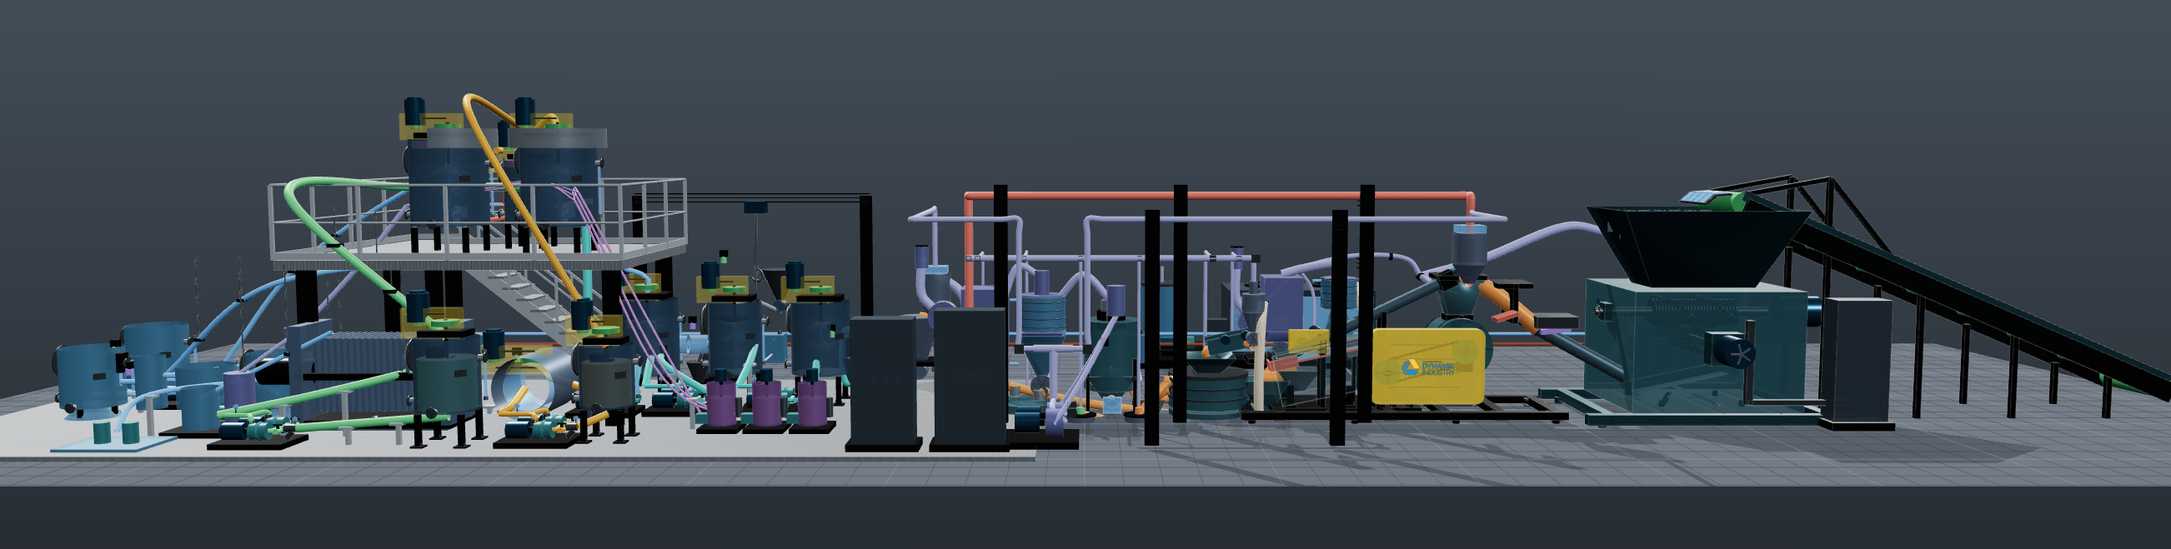
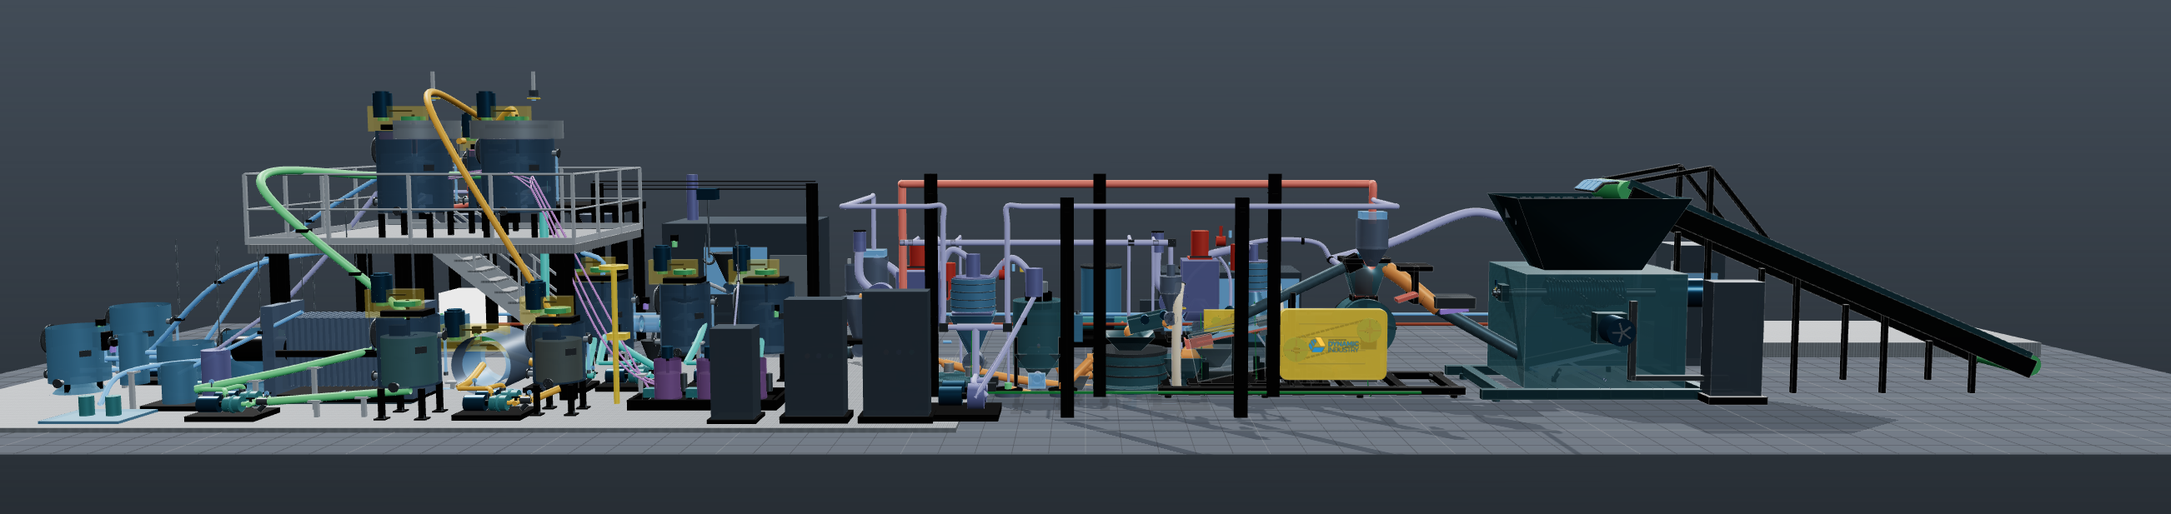
상업 플랜트화 — 폭발방호 · 계량/시료/출하 · AI 감시제어(권고)
「더 정확한 공정 / 상업 플랜트다운 전문성 / AI 적용처」 요청에 대응한다.
현 상태를 조사해 보니 결손이 세 층이었다 — 안전, 거래 경계, 그리고 지능 계층.

분진 폭발 방호. 설계문서는 「Kst/MIE 폭발성 시험」과 「집진/폭발방호」를 제작 전
필수 검증으로 규정하는데 정작 형상이 하나도 없었다. PV 라미네이트를 분쇄하면
Al 미분·폴리머·미세 유리가 나오므로 실제 ATEX/KOSHA 대상이다. 방호를 세 겹으로
세웠다 — 방출(HSG-101·CY-101·BF-101·CY-201·BF-201 벤트 패널과 방출 덕트),
차단(집진기 앞 화염 차단밸브), 착화원 제거(스파크 검출헤드·소화 노즐, 접지 모선과
장비별 본딩). 문서 L2006 이 「접지 강관 위 전파 브러시 방전」을 지적하므로 본딩을
배관까지 끌었다.

계량·시료·출하. 공정만 있고 거래 경계가 없었다. 야드 열(z ≈ 4.6)이 비어 있어
여기에 WB-001 트럭 계량대(60 t, 로드셀 4점, 계량 키오스크), SP-601 시료 축소탑,
LAB-601 분석실, BB-501/502 빅백 충진 스테이션(로드셀 계량·집진 후드)을 놓았다.
약품 스키드에는 방액범과 SS-601 비상샤워·세안기를 둘렀다.

AI 감시제어. 카메라 5대(부선 셀 3기 거품, 투입 패널 분류, 온라인 입도)와 AI-601
엣지 추론 유닛을 놓고, 거품 영상 소프트센서를 실제로 계산되게 붙였다.

여기서 한 번 잘못 짚었다. 처음에는 Sb = 6·Jg/d32 를 그대로 뒤집어 기포경을 얻었는데,
그러면 가정한 상수 1.0 mm 가 그대로 돌아오는 순환 계산이라 세 셀이 전부 같은 값이었다.
카메라의 값어치는 바로 그 상수 가정을 실측으로 대체하는 데 있다. 기포경을 운전점의
함수로 다시 세웠다 — d32 ∝ Jg^0.33 · N^−0.25 (공기를 넣을수록 굵어지고 임펠러가
빠를수록 잘게 쪼개진다). 이 값으로 Sb 를 다시 잡아 R = kτ/(1+kτ) 로 회수율을 추정하니
셀마다 1.000 / 1.073 / 1.105 mm 로 갈리고, 기포가 굵은 셀일수록 추정 회수율이 설계모델
보다 낮게 나온다. 그 차이가 곧 카메라가 더해 주는 정보다.

권고 논리는 조작변수의 물리적 한계를 지킨다 — 회수율이 목표에 못 미치면 먼저 공기량을
올리지만(Sb↑ → k↑ → R↑), 겉보기 가스유속이 Jg = 0.013 m/s 에 닿으면 포말이 무너지므로
더 올리지 않고 포수제 증량으로 조작변수를 바꾼다.

경계 조항을 패널 맨 앞에 박아 두었다. 규제제어(PID) 계층이 아직 없으므로 이 계층은
폐루프가 아니라 개루프 권고(advisory)이고, E-stop·가드 인터록·폭발 방호·과압 트립은
전부 하드와이어/SIL 로 남는다. 안전기능은 모델에 맡기지 않는다.

검증: 구문 6블록 · 차단 로드 · 표시 모드 5종 오류 0. 소프트센서 실측으로 셀별 기포경·
추정 회수율·잔차·권고를 확인. 난수 호출부 random() 37 · visualRandom() 17 유지 —
[…]

Changed region(s): [[0.0, 0.154, 1.0, 0.893]]

diff --git a/docs/drawings/pv-recycling-miniapp.html b/docs/drawings/pv-recycling-miniapp.html
@@ -1601,6 +1601,64 @@ html>body{padding:0}</style>
     <div class="text-small text-muted">정상정지는 BH-101 인계 차단 후 어트리션·부선·탈수 재고를 순차 배출하고 공정수·블로어를 마지막에 정지합니다.</div>
   </details>
 
+  <details class="card hsg3d-validation" id="plant-panel-ai" data-panel-id="ai" data-panel-category="통합 운전">
+    <summary>AI 감시제어 — 거품 영상 소프트센서 (권고 운전)</summary>
+
+    <p class="text-small dd-warning"><strong>경계 조항 — 안전기능은 모델에 맡기지 않습니다.</strong>
+      E-stop, 가드 인터록, 폭발 방호(벤팅·화염차단·스파크 소화), 과압·과부하 트립은 전부
+      하드와이어 / SIL 회로로 남습니다. AI 계층은 <strong>그 위에서 운전점을 권고</strong>할 뿐이며,
+      권고를 무시해도 플랜트는 안전하게 서야 합니다.</p>
+
+    <p class="text-small">현재 규제제어(PID) 계층이 없으므로 이 계층은 <strong>개루프 권고(advisory)</strong>로
+      동작합니다. 상업 플랜트도 APC 도입 시 개루프 권고로 먼저 운용해 모델을 신뢰할 수 있는지 확인한 뒤
+      폐루프로 승격합니다. <code>FIC-201/202/203</code>·<code>LIT</code> 루프가 생기면 같은 출력이 그대로
+      설정값으로 내려갑니다.</p>
+
+    <strong>붙인 모델 — 무엇을 보고 무엇을 내놓는가</strong>
+    <div class="table-responsive"><table class="table table-sm" aria-label="AI 모델 목록">
+      <thead><tr><th>태그</th><th>모델</th><th>입력(관측량)</th><th>출력</th><th class="text-end">주기</th></tr></thead>
+      <tbody>
+        <tr><td>VC-201/202/203</td><td>거품 영상 소프트센서</td><td>Sauter 기포경 d<sub>32</sub>, 포말 표면속도, 하중(색·질감)</td><td>추정 회수율 · 권고 조작</td><td class="text-end">1 s</td></tr>
+        <tr><td>VC-001</td><td>투입 패널 분류</td><td>패널 상면 영상</td><td>종류(유리/유리·유리/백시트) · 치수 · 파손 · JB 유무</td><td class="text-end">장당</td></tr>
+        <tr><td>VC-101</td><td>온라인 입도(PSD)</td><td>이송 슈트 낙하 영상</td><td>d<sub>50</sub>·d<sub>95</sub> 추정</td><td class="text-end">5 s</td></tr>
+        <tr><td>VIT-101/204/301</td><td>예지보전 분류</td><td>진동 스펙트럼 + 모터 전류</td><td>베어링·임펠러 마모 등급</td><td class="text-end">1 min</td></tr>
+      </tbody>
+    </table></div>
+
+    <strong>소프트센서가 실제로 푸는 식</strong>
+    <p class="text-small">카메라는 회수율을 재지 못합니다. 재는 것은 거품의 겉모습이고, 회수율은 거기서
+      <em>추정</em>하는 값입니다. 기포 표면적 유속 <code>S<sub>b</sub> = 6·J<sub>g</sub>/d<sub>32</sub></code>
+      를 뒤집어 영상의 기포경에서 S<sub>b</sub> 를 얻고, 완전혼합 1차 모델
+      <code>R = kτ/(1+kτ)</code> 로 회수율을 추정합니다. 추정값은 <strong>LAB-601 분석값으로 교정</strong>하며,
+      교정 잔차가 곧 이 소프트센서의 정확도입니다.</p>
+
+    <div class="table-responsive"><table class="table table-sm" aria-label="FC-201 러퍼 실시간 추정">
+      <thead><tr><th>FC-201 러퍼 (실시간)</th><th class="text-end">값</th><th>의미</th></tr></thead>
+      <tbody>
+        <tr><td>추정 회수율</td><td class="text-end" data-ai-grade>—</td><td>영상 기반 소프트센서 출력</td></tr>
+        <tr><td>교정 잔차 (LAB 대비)</td><td class="text-end" data-ai-residual>—</td><td>이 값이 커지면 재교정 대상</td></tr>
+        <tr><td>Sauter 기포경 d<sub>32</sub></td><td class="text-end" data-ai-d32>—</td><td>정상 0.9–2.6 mm</td></tr>
+        <tr><td>포말 표면속도</td><td class="text-end" data-ai-velocity>—</td><td>과폭기·포말 붕괴 판단</td></tr>
+        <tr><td>추정 신뢰도</td><td class="text-end" data-ai-confidence>—</td><td>50 % 미만이면 권고를 내지 않음</td></tr>
+      </tbody>
+    </table></div>
+
+    <p class="text-small"><strong>권고</strong> · <span data-ai-advice>—</span></p>
+
+    <p class="text-small">권고 논리는 조작변수의 물리적 한계를 지킵니다 — 회수율이 목표에 못 미치면
+      <strong>먼저 공기량</strong>을 올리지만(S<sub>b</sub>↑ → k↑ → R↑), 겉보기 가스유속이 상한
+      <code>J<sub>g</sub> = 0.013 m/s</code> 에 닿으면 더 올리지 않고 <strong>포수제 증량</strong>으로
+      조작변수를 바꿉니다. 공기를 무한정 올리면 포말이 무너져 오히려 회수율이 떨어지기 때문입니다.</p>
+
+    <strong>전제 — 분석 데이터가 없으면 AI 도 없습니다</strong>
+    <p class="text-small">소프트센서는 교정 없이는 숫자를 지어낼 뿐입니다. 이번에 세운
+      <strong>SP-601 시료 축소탑과 LAB-601 분석실</strong>이 그 ground truth 를 만듭니다.
+      자동 샘플러 → 리플 분할 → 분석 → 소프트센서 재교정이 한 고리로 돌아야 합니다.</p>
+
+    <p class="text-small text-muted">한계: 야금수지(스트림별 Ag·유리·Si 조성)가 아직 없어 추정 회수율은
+      부유성 B 군 기준의 상대값입니다. 절대 품위(g/t)와 정산은 야금수지가 들어와야 성립합니다.</p>
+  </details>
+
   <details class="card hsg3d-layout-panel" id="plant-panel-layout" data-panel-id="layout" data-panel-category="상세설계"><summary>6개 장비군 · 2D/3D 상세 제작·설치 설계</summary></details>
 
   <details class="card hsg3d-parts-panel" id="plant-panel-maintenance" data-panel-id="maintenance" data-panel-category="제작·설치"><summary>6개 장비군 · BOM·체결구·설치 인터페이스</summary></details>
@@ -15529,6 +15587,9 @@ window.__HSG_CANNON__=Object.freeze({"AABB":AABB,"ArrayCollisionMatrix":ArrayCol
       equipmentWater: makeMaterial(color.equipmentWater, 0.36, 0.48, 0.92),
       equipmentControl: makeMaterial(color.equipmentControl, 0.30, 0.62, 0.96)
     };
+    // 폭발방호 부속은 한눈에 구분돼야 한다 — 안전색으로 따로 뺀다.
+    const explosionMaterial = makeMaterial(0xb8452f, 0.46, 0.24);      // 벤트 패널·차단밸브
+    const bondingMaterial = makeMaterial(0x3f8f4a, 0.52, 0.30);        // 접지·본딩 (녹색)
     const scene = new THREE.Scene();
     // 배경이 --background 한 색(dark 에서 rgb 24,24,24)이라 플랜트가 캄캄한 허공에 떠
     // 있었다. 화면의 3/4 이 휘도 24 짜리 검정이면 장치를 아무리 밝게 비춰도 전체가
@@ -15654,6 +15715,33 @@ window.__HSG_CANNON__=Object.freeze({"AABB":AABB,"ArrayCollisionMatrix":ArrayCol
 
     function addBox(parent, size, position, sourceMaterial, partId, rotation, edged = true) {
       return addMesh(parent, new THREE.BoxGeometry(size.x, size.y, size.z), sourceMaterial, position, rotation, partId, edged);
+    }
+
+    // ---- 분진 폭발 방호 (ATEX / KOSHA) --------------------------------------
+    // PV 라미네이트를 분쇄하면 Al 미분·폴리머·미세 유리가 나온다. 설계문서는
+    // 「Kst/MIE 폭발성 시험」과 「집진/폭발방호」를 제작 전 필수 검증으로 규정하는데
+    // 정작 형상이 하나도 없었다. 방호는 세 겹이다 — 방출(벤팅) · 차단(전파 방지) ·
+    // 착화원 제거(스파크 검출·접지).
+    // 벤트는 사람이 다니지 않는 쪽으로 열려야 하므로 방향을 인자로 받는다.
+    function addVentPanel(parent, partId, position, size, dir = "y") {
+      const rot = dir === "y" ? null : dir === "x" ? { z: Math.PI / 2 } : { x: Math.PI / 2 };
+      addBox(parent, { x: size.x, y: 0.035, z: size.z }, position, explosionMaterial, partId, rot, true);
+      // 힌지와 구속 밴드 — 패널이 완전히 날아가지 않게 잡아 둔다
+      addBox(parent, { x: size.x * 0.92, y: 0.030, z: 0.030 },
+        { x: position.x, y: position.y + 0.03, z: position.z - size.z / 2 }, material.silverClamp, partId, rot, false);
+      // 방출 덕트 — 안전구역으로 뽑는다
+      addCylinder(parent, Math.min(size.x, size.z) * 0.42, 0.44,
+        { x: position.x, y: position.y + 0.24, z: position.z }, explosionMaterial, partId, "y", 20, false);
+    }
+    // 접지·본딩 — 문서 L2006 이 「접지 강관 위 전파 브러시 방전(IEC TS 60079-32-1)」을
+    // 지적하므로 배관·장비를 접지 모선에 묶는다.
+    function addBonding(parent, partId, from, to) {
+      const curve = new THREE.CatmullRomCurve3([
+        new THREE.Vector3(from.x, from.y, from.z),
+        new THREE.Vector3((from.x + to.x) / 2, Math.min(from.y, to.y) - 0.10, (from.z + to.z) / 2),
+        new THREE.Vector3(to.x, to.y, to.z)
+      ]);
+      addMesh(parent, new THREE.TubeGeometry(curve, 18, 0.008, 6, false), bondingMaterial, { x: 0, y: 0, z: 0 }, null, partId, false);
     }
 
     function addCylinder(parent, radius, length, position, sourceMaterial, partId, axis = "z", segments = 48, edged = false) {
@@ -17328,6 +17416,34 @@ window.__HSG_CANNON__=Object.freeze({"AABB":AABB,"ArrayCollisionMatrix":ArrayCol
     // Wet-process objects are added to the same scene/camera as the preserved
     // ICSH-301 -> HSG-101 -> SV/SS-201 source model. Only the plant-to-plant
     // coordinate transform and the sealed <75 um handoff are new.
+    // ── 분진 폭발 방호 배치 ────────────────────────────────────────────────
+    // 방출: 압력이 설계값을 넘으면 사람이 없는 쪽으로 터뜨려 용기를 살린다.
+    // 차단: 화염이 덕트를 타고 상·하류로 전파하는 것을 막는다.
+    // 착화원: 스파크를 덕트에서 잡고, 정전기가 쌓이지 않게 접지로 흘린다.
+    // 이 세 겹이 있어야 Kst/MIE 시험 결과를 설계에 반영했다고 말할 수 있다.
+    addVentPanel(parts.P02, "P02", { x: grinderX, y: 1.53, z: 0 }, { x: 0.34, z: 0.34 });
+    addVentPanel(parts.P15, "P15", { x: cycloneX + 0.28, y: 1.90, z: cycloneZ }, { x: 0.26, z: 0.26 }, "x");
+    addVentPanel(parts.P17, "P17", { x: filterCenter.x, y: 2.12, z: filterCenter.z }, { x: 0.40, z: 0.36 });
+    addVentPanel(parts.P21, "P21", { x: cyclone2Center.x + 0.42, y: 1.60, z: cyclone2Center.z }, { x: 0.30, z: 0.30 }, "x");
+    addVentPanel(parts.P21, "P21", { x: bfCenter.x, y: 1.98, z: bfCenter.z }, { x: 0.48, z: 0.40 });
+
+    // 화염 차단밸브 — 집진기 앞 덕트. 로터리 에어록도 차단장치로 함께 계정한다.
+    [["P17", 1.62, 2.40, 0.55], ["P21", 5.30, 1.86, 0.20]].forEach(([id, x, y, z]) => {
+      addCylinder(parts[id], 0.085, 0.16, { x, y, z }, explosionMaterial, id, "x", 20, false);
+      addBox(parts[id], { x: 0.05, y: 0.20, z: 0.05 }, { x, y: y + 0.16, z }, explosionMaterial, id, null, false);
+      // 스파크 검출헤드와 소화 노즐 — 검출에서 분사까지 수십 ms 안에 끝나야 한다
+      addCylinder(parts[id], 0.032, 0.10, { x: x - 0.30, y: y + 0.10, z }, material.safety, id, "y", 14, false);
+      addCylinder(parts[id], 0.026, 0.12, { x: x - 0.16, y: y + 0.12, z }, material.pipeWater, id, "y", 12, false);
+    });
+
+    // 접지 모선과 본딩 — 장비·배관을 한 점 접지로 묶는다.
+    addBox(parts.P01, { x: 8.20, y: 0.035, z: 0.05 }, { x: 2.60, y: 0.06, z: -0.92 }, bondingMaterial, "P01", null, false);
+    addBonding(parts.P02, "P02", { x: grinderX, y: 0.58, z: -0.30 }, { x: grinderX, y: 0.06, z: -0.92 });
+    addBonding(parts.P15, "P15", { x: cycloneX, y: 1.40, z: cycloneZ - 0.20 }, { x: cycloneX, y: 0.06, z: -0.92 });
+    addBonding(parts.P17, "P17", { x: filterCenter.x, y: 1.20, z: filterCenter.z - 0.26 }, { x: filterCenter.x, y: 0.06, z: -0.92 });
+    addBonding(parts.P21, "P21", { x: cyclone2Center.x, y: 1.10, z: cyclone2Center.z - 0.30 }, { x: cyclone2Center.x, y: 0.06, z: -0.92 });
+    addBonding(parts.P21, "P21", { x: bfCenter.x, y: 1.00, z: bfCenter.z - 0.32 }, { x: bfCenter.x, y: 0.06, z: -0.92 });
+
     const unifiedWet = new THREE.Group();
     unifiedWet.name = "UNIFIED-WET-PROCESS";
     circuit.add(unifiedWet);
@@ -18076,6 +18192,82 @@ window.__HSG_CANNON__=Object.freeze({"AABB":AABB,"ArrayCollisionMatrix":ArrayCol
     wetControlPanel("RIO-401", 11.60, 2.82, 0.56, 1.12, "어트리션·약품 현장 I/O");
     wetControlPanel("RIO-402", 16.82, 2.82, 0.56, 1.12, "부선·탈수 현장 I/O");
 
+    // ── AI 감시제어 현장 장치 ─────────────────────────────────────────────
+    // 카메라가 재는 것은 회수율이 아니라 거품의 겉모습이다. 셀 위에서 포말 표면을
+    // 내려다보게 걸고, 조명은 그림자가 지지 않게 링으로 준다.
+    function wetVisionCamera(tag, x, y, z, note) {
+      wetBox(unifiedWet, [0.10, 0.10, 0.16], [x, y, z], material.equipmentControl, `${tag} 카메라 본체`);
+      wetCylinder(unifiedWet, 0.035, 0.06, [x, y - 0.10, z], material.screen, `${tag} 렌즈`, 16);
+      wetMesh(unifiedWet, new THREE.TorusGeometry(0.10, 0.014, 6, 20), material.safety, [x, y - 0.09, z], `${tag} LED 링조명`, [Math.PI / 2, 0, 0]);
+      wetBox(unifiedWet, [0.05, 0.34, 0.05], [x, y + 0.20, z], hdgMaterial, `${tag} 브래킷`);
+      wetLabel(`${tag} · ${note}`, [x, y + 0.52, z], [1.50, 0.19, 1]);
+    }
+    // 부선 셀 3기 — 라우더 위에서 포말면을 본다
+    wetVisionCamera("VC-201", 13.38, 4.92, 0.86, "FC-201 거품 영상");
+    wetVisionCamera("VC-202", 14.24, 4.30, 1.86, "FC-202 거품 영상");
+    wetVisionCamera("VC-203", 15.10, 4.92, 0.86, "FC-203 거품 영상");
+    // 투입 패널 분류 · 온라인 입도
+    wetVisionCamera("VC-001", -6.40, 1.62, 1.30, "패널 종류·치수·파손 분류");
+    wetVisionCamera("VC-101", 2.36, 1.42, -0.10, "온라인 입도(PSD)");
+    // AI-601 엣지 추론 유닛 — 제어반 열 옆
+    wetBox(unifiedWet, [0.72, 0.06, 0.62], [9.12, 0.03, -2.82], material.frame, "AI-601 플린스");
+    wetBox(unifiedWet, [0.62, 1.34, 0.52], [9.12, 0.73, -2.82], material.equipmentControl, "AI-601 엣지 추론 유닛");
+    wetBox(unifiedWet, [0.44, 0.30, 0.03], [9.12, 1.06, -2.55], material.screen, "AI-601 상태 표시");
+    for (const dy of [0.38, 0.50, 0.62]) {
+      wetBox(unifiedWet, [0.40, 0.035, 0.03], [9.12, dy, -2.55], material.silverClamp, "AI-601 GPU 모듈");
+    }
+    wetTube(unifiedWet, [[9.12, 1.42, -2.82], [9.12, 1.86, -2.60], [10.60, 1.86, 3.50]], 0.016, material.pipeAir, "AI-601 광케이블 트렁크");
+    wetLabel("AI-601 엣지 추론 · 거품 소프트센서 · 권고(advisory)", [9.12, 1.72, -2.82], [2.15, 0.21, 1]);
+
+    // ── 계량 · 시료 · 출하 (상업 플랜트 거래 경계) ─────────────────────────
+    // 지금까지는 공정만 있고 「거래 경계」가 없었다. 상업 플랜트는 들어온 양과 나간 양을
+    // 법정 계량으로 확정하고, 그 값을 시료·분석으로 뒷받침해야 정산이 성립한다.
+    // 야드 열(z ≈ 4.6)은 비어 있어 계량·출하 동선을 여기에 잡는다.
+    const YARD_ROW_Z = 4.60;
+
+    // WB-001 트럭 계량대 — 입·출하 custody transfer 경계
+    wetBox(unifiedWet, [6.40, 0.28, 3.10], [-10.90, 0.14, YARD_ROW_Z], gratingMaterial(6.40, 3.10), "WB-001 계량 데크");
+    for (const dx of [-2.85, 2.85]) for (const dz of [-1.30, 1.30]) {
+      wetCylinder(unifiedWet, 0.075, 0.24, [-10.90 + dx, 0.12, YARD_ROW_Z + dz], material.silverClamp, "WB-001 로드셀", 16);
+    }
+    wetBox(unifiedWet, [0.90, 2.20, 0.90], [-7.20, 1.10, YARD_ROW_Z - 2.10], material.equipmentControl, "WB-001 계량 키오스크");
+    wetBox(unifiedWet, [0.62, 0.40, 0.03], [-7.20, 1.50, YARD_ROW_Z - 2.56], material.screen, "WB-001 계량 표시기");
+    wetLabel("WB-001 트럭 계량대 · 60 t · 입출하 custody transfer", [-10.90, 1.40, YARD_ROW_Z], [2.55, 0.24, 1]);
+
+    // SP-601 시료 축소탑 + LAB-601 분석실 — AI 소프트센서 교정의 데이터 원천
+    wetBox(unifiedWet, [0.70, 0.10, 0.70], [8.40, 0.05, YARD_ROW_Z], material.frame, "SP-601 기초");
+    wetCone(unifiedWet, 0.30, 0.10, 0.46, [8.40, 0.86, YARD_ROW_Z], material.solidsReceiver, "SP-601 리플 분할기", 20);
+    wetCylinder(unifiedWet, 0.30, 0.52, [8.40, 1.35, YARD_ROW_Z], material.solidsReceiver, "SP-601 시료 축소탑", 24, null, true);
+    for (const dz of [-0.34, 0.34]) wetCylinder(unifiedWet, 0.085, 0.22, [8.40, 0.42, YARD_ROW_Z + dz], material.equipmentReceiver, "SP-601 축소시료통", 18);
+    for (const dx of [-0.28, 0.28]) wetBox(unifiedWet, [0.06, 1.70, 0.06], [8.40 + dx, 0.85, YARD_ROW_Z + 0.40], hdgMaterial, "SP-601 지지대");
+    wetBox(unifiedWet, [2.80, 2.50, 2.20], [10.60, 1.25, YARD_ROW_Z], material.equipmentControl, "LAB-601 분석실");
+    wetBox(unifiedWet, [1.20, 0.90, 0.04], [10.60, 1.60, YARD_ROW_Z - 1.12], material.screen, "LAB-601 창");
+    wetBox(unifiedWet, [0.80, 1.90, 0.05], [9.55, 0.95, YARD_ROW_Z - 1.10], material.cover, "LAB-601 출입문");
+    wetCylinder(unifiedWet, 0.11, 0.90, [11.70, 2.95, YARD_ROW_Z], material.equipmentAir, "LAB-601 흄후드 배기", 18);
+    wetLabel("SP-601 시료 축소 · LAB-601 분석실 — 정광 품위 확정", [9.50, 3.05, YARD_ROW_Z], [2.60, 0.24, 1]);
+
+    // BB-501/502 빅백 충진 스테이션 — 로드셀 계량 후 출하
+    [["BB-501", 13.60, "Si 케이크 제품"], ["BB-502", 16.10, "Ag 정광"]].forEach(([tag, bx, what]) => {
+      for (const dx of [-0.62, 0.62]) for (const dz of [-0.62, 0.62]) {
+        wetHBeam(unifiedWet, `${tag} 충진 프레임 H200`, [bx + dx, 1.35, YARD_ROW_Z + dz], 2.70, "y", 0.20, 0.10);
+      }
+      wetBox(unifiedWet, [1.50, 0.14, 1.50], [bx, 2.76, YARD_ROW_Z], material.frame, `${tag} 상부 보`);
+      wetCone(unifiedWet, 0.34, 0.12, 0.52, [bx, 2.36, YARD_ROW_Z], material.solidsReceiver, `${tag} 충진 호퍼`, 22);
+      for (const dx of [-0.50, 0.50]) wetCylinder(unifiedWet, 0.055, 0.18, [bx + dx, 2.70, YARD_ROW_Z], material.silverClamp, `${tag} 계량 로드셀`, 14);
+      wetBox(unifiedWet, [0.95, 0.95, 0.95], [bx, 0.62, YARD_ROW_Z], material.equipmentReceiver, `${tag} 빅백 1 t`);
+      wetBox(unifiedWet, [1.15, 0.14, 1.05], [bx, 0.08, YARD_ROW_Z], material.frame, `${tag} 파렛트`);
+      wetCylinder(unifiedWet, 0.13, 0.40, [bx + 0.80, 2.30, YARD_ROW_Z], material.equipmentAir, `${tag} 집진 후드`, 18);
+      wetLabel(`${tag} · ${what} 빅백 충진`, [bx, 3.20, YARD_ROW_Z], [1.70, 0.21, 1]);
+    });
+
+    // 약품 방액범과 비상샤워 — RS-201/202/203 은 정량 약품이라 누출 대비가 필수다
+    for (const [dx, dz, sx, sz] of [[0, -0.52, 2.30, 0.06], [0, 0.52, 2.30, 0.06], [-1.12, 0, 0.06, 1.10], [1.12, 0, 0.06, 1.10]]) {
+      wetBox(unifiedWet, [sx, 0.16, sz], [9.82 + dx, 0.08, -1.55 + dz], material.frame, "RS-201/202/203 방액범");
+    }
+    wetCylinder(unifiedWet, 0.045, 2.20, [11.30, 1.10, -1.55], material.safety, "SS-601 비상샤워 지주", 14);
+    wetCylinder(unifiedWet, 0.22, 0.06, [11.30, 2.16, -1.55], material.safety, "SS-601 샤워 헤드", 20);
+    wetBox(unifiedWet, [0.30, 0.10, 0.24], [11.30, 1.05, -1.40], material.safety, "SS-601 세안기");
+
     wetLabel("완전 통합공정 · 건식 환류 → 정량 습식인계 → 어트리션 → 부선 → 탈수 → 공정수 회수", [13.70, 5.36, 0.12], [3.05, 0.29, 1]);
 
     // 습식 배관을 다 놓은 뒤 지지물을 한 번에 배치한다. 배관마다 손으로 다는 대신
@@ -18272,6 +18464,14 @@ window.__HSG_CANNON__=Object.freeze({"AABB":AABB,"ArrayCollisionMatrix":ArrayCol
       dryStopIssued: false,
       wetStopIssued: false,
       lastUiMs: 0
+    };
+    const aiUi = {
+      grade: root.querySelector("[data-ai-grade]"),
+      residual: root.querySelector("[data-ai-residual]"),
+      d32: root.querySelector("[data-ai-d32]"),
+      velocity: root.querySelector("[data-ai-velocity]"),
+      confidence: root.querySelector("[data-ai-confidence]"),
+      advice: root.querySelector("[data-ai-advice]")
     };
     const unifiedUi = {
       mode: root.querySelector("[data-plc001-mode]"),
@@ -18673,6 +18873,7 @@ window.__HSG_CANNON__=Object.freeze({"AABB":AABB,"ArrayCollisionMatrix":ArrayCol
       });
       updateAttritionParticles(seconds);
       updateFlotationParticles(seconds);
+      updateFrothVision(seconds);
       updateFilterPress(seconds);
       wetFlowMarkers.forEach((marker) => {
         const enabled = wetAnimationAllowed(marker.userData.activation);
@@ -19322,9 +19523,9 @@ window.__HSG_CANNON__=Object.freeze({"AABB":AABB,"ArrayCollisionMatrix":ArrayCol
       return 6 * (airNm3Min / area / 60) / FLOTATION_BUBBLE_D32_M;
     }
     const flotationCells = [
-      { cell: fc201, tag: "FC-201", volumeL: 180, air: 0.060 },
-      { cell: fc202, tag: "FC-202", volumeL: 30, air: 0.020 },
-      { cell: fc203, tag: "FC-203", volumeL: 190, air: 0.075 }
+      { cell: fc201, tag: "FC-201", volumeL: 180, air: 0.060, rpm: DRIVE_RPM.flotationRougher },
+      { cell: fc202, tag: "FC-202", volumeL: 30, air: 0.020, rpm: DRIVE_RPM.flotationCleanerScav },
+      { cell: fc203, tag: "FC-203", volumeL: 190, air: 0.075, rpm: DRIVE_RPM.flotationCleanerScav }
     ].map((entry) => {
       const sb = flotationSb(entry.volumeL, entry.air);
       const tau = entry.volumeL / FLOTATION_SLURRY_LPM;
@@ -19373,6 +19574,76 @@ window.__HSG_CANNON__=Object.freeze({"AABB":AABB,"ArrayCollisionMatrix":ArrayCol
       );
       item.mesh.material.opacity = 1;
     }
+    // ---- AI-601 거품 영상 소프트센서 (advisory) ------------------------------
+    // 실제 거품 카메라가 재는 것은 회수율이 아니라 겉모습이다 — Sauter 평균 기포경
+    // d32, 포말 표면속도, 하중(색·질감). 회수율은 거기서 추정하고 LAB-601 분석값으로
+    // 교정한다. 여기서는 물리모델 회수율이 ground truth 이고, 소프트센서는 관측량에서
+    // 그 값을 되짚되 교정 잔차만큼 어긋나게 둔다 — 실제 소프트센서가 그렇게 동작한다.
+    // 잔차는 난수가 아니라 느린 주기함수로 둔다: 시드 DEM 난수열을 건드리지 않고,
+    // 재현 가능하며, 실제로도 소프트센서 오차는 백색잡음이 아니라 드리프트로 나타난다.
+    // 물리모델은 기포경을 상수 1.0 mm 로 가정한다(FLOTATION_BUBBLE_D32_M). 카메라의 값어치는
+    // 바로 그 가정을 실측으로 대체하는 데 있다 — 기포경은 운전점에 따라 움직인다.
+    // 공기를 많이 넣을수록 굵어지고(합체), 임펠러를 빨리 돌릴수록 잘게 쪼개진다.
+    //   d32 ∝ Jg^0.33 · N^−0.25
+    // 이 값으로 Sb 를 다시 계산해 회수율을 추정하므로, 추정값과 설계모델의 차이가
+    // 곧 카메라가 더해 주는 정보다. 상수를 되짚는 순환 계산이 아니다.
+    const FROTH_JG_REF = 0.0034;           // 기준 운전점 겉보기 가스유속 m/s (FC-201)
+    const FROTH_RPM_REF = 420;             // 기준 임펠러 회전수
+    const FROTH_VISION_DRIFT = 0.012;      // LAB 교정 잔차 진폭 — 영상 교정의 잔여 오차
+    const FROTH_D32_OK = [0.9, 2.6];       // 정상 운전 기포경 범위 mm
+    const FROTH_JG_MAX = 0.013;            // 공기 겉보기 유속 상한 m/s — 넘으면 포말이 무너진다
+    const frothVision = flotationCells.map((entry, index) => ({
+      entry, tag: entry.tag, phase: index * 2.1,
+      d32: 0, frothVelocity: 0, load: 0, jg: 0,
+      estimated: 0, model: 0, residual: 0, confidence: 0, advice: "—"
+    }));
+    function updateFrothVision(seconds) {
+      for (const v of frothVision) {
+        const { entry } = v;
+        const volume = entry.volumeL / 1000;
+        const diameter = Math.cbrt(4 * volume / Math.PI);
+        const area = Math.PI * diameter * diameter / 4;
+        v.jg = entry.air / area / 60;                       // 겉보기 가스유속 m/s
+        // 영상에서 읽은 기포경 — 운전점을 따라 움직인다
+        v.d32 = FLOTATION_BUBBLE_D32_M * 1000
+          * Math.pow(v.jg / FROTH_JG_REF, 0.33)
+          * Math.pow(FROTH_RPM_REF / entry.rpm, 0.25);
+        v.frothVelocity = v.jg * 100 * 1.8;                 // 포말 표면속도 cm/s (경험 비례)
+        v.model = entry.recovery.B;                         // 설계모델 회수율(기포경 상수 가정)
+        v.load = THREE.MathUtils.clamp(v.model * 0.92, 0, 1);
+        // 실측 기포경으로 Sb 를 다시 잡고 같은 1차 모델로 회수율을 추정한다
+        const sbVision = 6 * v.jg / (v.d32 / 1000);
+        const kVision = FLOTATION_K0 * (sbVision / flotationCells[0].sb) * FLOTATION_FLOATABILITY.B;
+        const ktVision = kVision * entry.tau;
+        const drift = FROTH_VISION_DRIFT * Math.sin(seconds * 0.09 + v.phase);   // LAB 교정 잔여
+        v.estimated = THREE.MathUtils.clamp(ktVision / (1 + ktVision) + drift, 0, 1);
+        v.residual = v.estimated - v.model;
+        // 신뢰도 — 기포경이 교정 범위를 벗어나면 추정이 못 미덥다
+        const span = FROTH_D32_OK[1] - FROTH_D32_OK[0];
+        const out = Math.max(FROTH_D32_OK[0] - v.d32, v.d32 - FROTH_D32_OK[1], 0) / span;
+        v.confidence = THREE.MathUtils.clamp(1 - out * 1.6, 0.2, 0.99);
+        // 권고 — 회수율이 목표에 못 미치면 먼저 공기, 공기가 상한이면 약품.
+        // 공기를 무한정 올릴 수 없는 이유가 포말 붕괴라, 상한에서 조작변수를 바꾼다.
+        const target = entry.tag === "FC-201" ? FLOTATION_ROUGHER_TARGET : v.model + 0.02;
+        if (v.confidence < 0.5) v.advice = "영상 신뢰도 낮음 — LAB-601 재교정";
+        else if (v.estimated < target - 0.02) {
+          v.advice = v.jg < FROTH_JG_MAX
+            ? `${entry.tag} 공기량 +8 % (FIC 상향)`
+            : `${entry.tag} 포수제 +5 g/t — 공기 상한 도달`;
+        } else if (v.estimated > target + 0.04 && v.jg > FROTH_JG_MAX * 0.6) {
+          v.advice = `${entry.tag} 공기량 −5 % — 과폭기 여유`;
+        } else v.advice = "정상 — 조작 불필요";
+      }
+      if (!aiUi.grade) return;
+      const rougher = frothVision[0];
+      aiUi.grade.textContent = (rougher.estimated * 100).toFixed(1) + " %";
+      aiUi.residual.textContent = (rougher.residual * 100 >= 0 ? "+" : "") + (rougher.residual * 100).toFixed(2) + " %p";
+      aiUi.d32.textContent = rougher.d32.toFixed(2) + " mm";
+      aiUi.velocity.textContent = rougher.frothVelocity.toFixed(1) + " cm/s";
+      aiUi.confidence.textContent = (rougher.confidence * 100).toFixed(0) + " %";
+      aiUi.advice.textContent = frothVision.map((v) => v.advice).join(" · ");
+    }
+
     function updateFlotationParticles(seconds) {
       flotationParticles.forEach((item) => {
         const enabled = wetAnimationAllowed(item.entry.cell === fc201 ? 420 : 360);

diff --git a/docs/drawings/renders/README.md b/docs/drawings/renders/README.md
@@ -6,9 +6,9 @@
 
 | 파일 | 시점 | 크기 |
 |---|---|---|
-| `plant-view-top.png` | 평면 — 거의 수직(85°) 하향 | 2604 × 899 |
-| `plant-view-side-a.png` | 측면 A — +z 에서 −z 를 봄. 투입부가 왼쪽 | 2604 × 659 |
-| `plant-view-side-b.png` | 측면 B — −z 에서 +z 를 봄. 측면 A 의 반대편 | 2604 × 659 |
+| `plant-view-top.png` | 평면 — 거의 수직(85°) 하향 | 2604 × 882 |
+| `plant-view-side-a.png` | 측면 A — +z 에서 −z 를 봄. 투입부가 왼쪽 | 2604 × 617 |
+| `plant-view-side-b.png` | 측면 B — −z 에서 +z 를 봄. 측면 A 의 반대편 | 2604 × 617 |
 
 습식부 데크는 밝은 회색 강재 그레이팅이다. 이전 판에서는 `material.frame`(metalness 0.76 · 환경맵 없음)
 이라 평면에서 L≈15 의 검은 판으로 잡혀 그 위 장비를 눌렀다. 지금은 L≈160 으로, 스튜디오 배경(L≈114)
@@ -17,18 +17,21 @@
 습식부에는 ST-201 2층 데크 난간(H1,100·중간대·토보드 100)과 접근계단(유효폭 800·경사 38.8°),
 부유선별 셀 라우더(FC-011 360° / FC-021 single lip / FC-031 180°), 탱크 맨홀·노즐·레벨게이지,
 배관 행거·스탠션 33개소, H형강 기둥(H250/H200), 펌프 스트레이너·체크밸브가 서 있다.
+야드 열(z ≈ 4.6)에는 WB-001 트럭 계량대, SP-601 시료 축소탑·LAB-601 분석실,
+BB-501/502 빅백 충진 스테이션이 들어와 상업 플랜트의 거래 경계를 이룬다.
+건식 용기에는 폭발 벤팅 패널(적색)·화염 차단밸브·스파크 검출·접지 본딩(녹색)이 붙었다.
 BOM 에는 있는데 3D 형상이 없던 것을 채운 것이라, 이 그림은 BOM 과 형상이 일치하는 상태를 보여 준다.
 
 ## 촬영 기준
 
-설비 실범위 (지반·그리드 제외) **33.66 × 9.00 m · 높이 6.15 m**
-— x −11.70…21.95 / y −0.65…5.50 / z −3.40…5.60.
+설비 실범위 (지반·그리드 제외) **36.05 × 9.55 m · 높이 6.18 m**
+— x −14.10…21.95 / y −0.65…5.53 / z −3.41…6.14.
 
 | 시점 | yaw | pitch | distance |
 |---|---|---|---|
-| 평면 | 0 | 1.4835 rad (85°) | 24.0 |
-| 측면 A | 0 | 0.075 | 24.0 |
-| 측면 B | π | 0.075 | 24.0 |
+| 평면 | 0 | 1.4835 rad (85°) | 25.7 |
+| 측면 A | 0 | 0.075 | 25.7 |
+| 측면 B | π | 0.075 | 25.7 |
 
 카메라 거리는 캔버스의 실제 화각에서 역산한다 — 수직 FOV 36°, 가로는 종횡비로 확장한
 `hFOV = 2·atan(tan(vFOV/2)·aspect)` 를 써서 설비 폭·높이가 프레임에 꼭 차도록 맞추고 6 % 여유를 둔다.
